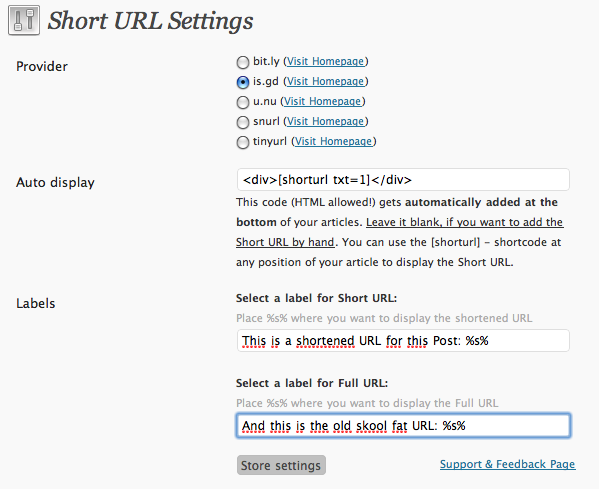
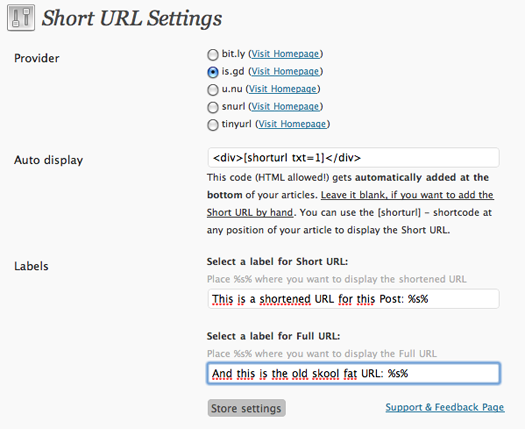
Adopated the name of the plugin to it's new features (it's not only a shortcode anymore). Fixed the Screenshot size and version number display.
git-svn-id: https://plugins.svn.wordpress.org/shortcode-shorturl/trunk@131500 b8457f37-d9ea-0310-8a92-e5e31aec5664

diff --git a/shorturl.php b/shorturl.php
@@ -1,9 +1,9 @@
 <?php
 /*
-Plugin Name: Shortcode [shorturl]
+Plugin Name: Automatic Short URL
 Plugin URI: http://hjacob.com/blog/2009/06/short_url_shortcode_wordpress/
 Description: Shortcode to add a autogenerated short url (provider: u.nu). Please visit plugin page for attribute list and support.
-Version: 0.1
+Version: 1.0
 Author: Jan Hendrik Merlin Jacob
 Author URI: http://hjacob.com/blog/
 */
